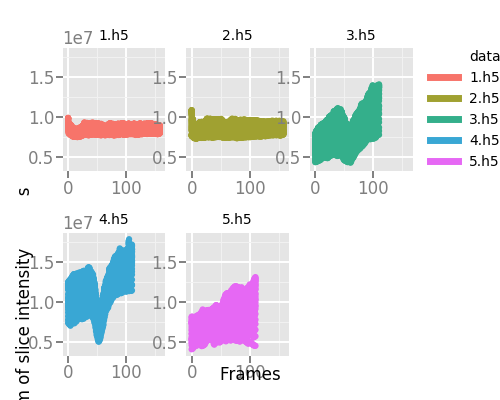
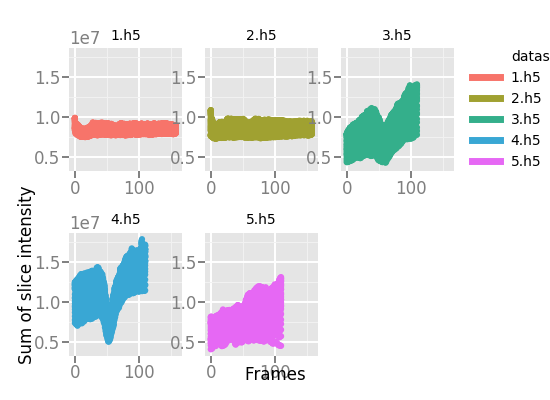
derp

diff --git a/verify/make_hist.py b/verify/make_hist.py
@@ -25,21 +25,21 @@ df['dataset'] = [x.split('/')[-1] for x in df['dataset']]
 df['z'] = [int(x.split('_')[1]) for x in df.fname]
 df['t'] = [int(x.split('_')[0]) for x in df.fname]
 
-ylabel = ylab("s            Sum of slice intensity          s")
+ylabel = ylab("Sum of slice intensity")
 
 fn = out_extra + 'sum_density_z.png'
 p = ggplot(aes(x='z', y='sums', colour='dataset'), data=df)
 p_dens = p + geom_point() + facet_wrap('dataset', ncol=3) + xlab("z axis") + \
     ylabel
-p_dens.save(path + fn, width=5, height=4)
+p_dens.save(path + fn, width=5.5, height=4)
 
 fn = out_extra + 'sum_density_t.png'
 p = ggplot(aes(x='t', y='sums', colour='dataset'), data=df)
 p_dens2 = p + geom_point() + facet_wrap('dataset', ncol=3) + xlab("Frames") + \
     ylabel
-p_dens2.save(path + fn, width=5, height=4)
+p_dens2.save(path + fn, width=5.5, height=4)
 
 fn = out_extra + 'sum_hist.png'
 p = ggplot(aes(x='sums'), data=df)
 p_hist = p + geom_histogram() + facet_wrap('dataset', ncol=3)
-p_hist.save(path + fn, width=5, height=4)
+p_hist.save(path + fn, width=5.5, height=4)
